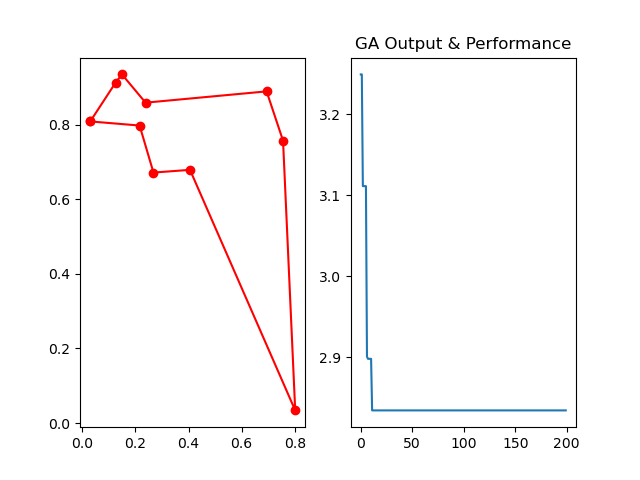
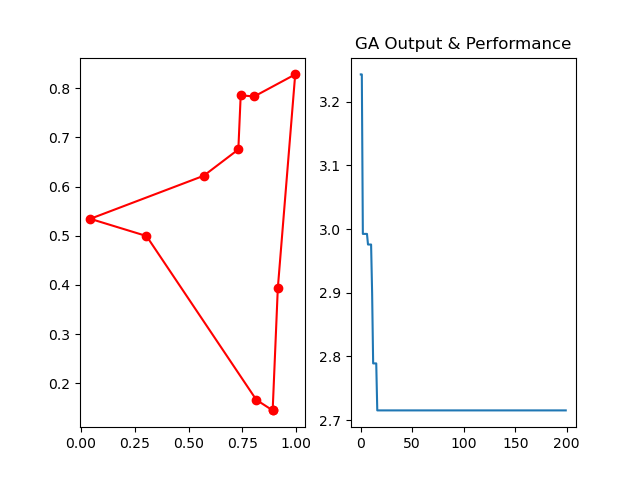
Commit 1.8 Markers Implemented, algorithm csv data

diff --git a/templates/csv_calc.html b/templates/csv_calc.html
@@ -34,20 +34,41 @@
 
         <p class="standard-text">Check your CSV for mistakes</p>
         <form action="/csv-calculator-data" target="_blank">
-        <input type="submit" value="Show CSV" />
-        {{ data_var|safe }}
+            <input type="submit" value="Show CSV" />
+            {{ data_var|safe }}
+        </form>
+
+        <p class="standard-text">Plot your coordinates on a map!</p>
+        <form method="POST" action="/plotted-data/">
+            <input type="submit" value="Plot Data">
         </form>
     </div>
     <br>
+
     <div id="map">
         {{ iframe|safe }}
     </div>
-    <div class = "frontend-calculator">
 
+    <h3>Input values</h3>
+    <p class="standard-text">Please type in values.</p>
+    <div class="input-values-calculator">
+        <h4>Max Iterations</h4>
+        <form id="myForm" action="/distances-csv/" method="POST">
+        <input type="number" class="form-field" id="max_iter" name="max_iter" value="{{ max_iter }}" required/> 
+        <h4>Number of points</h4>
+        <input type="number" class="form-field" id="num_points" name="num_points" value="{{ num_points }}" required/> 
+        <h4>Population size</h4>
+        <input type="number" class="form-field" id="size_pop" name="size_pop" value="{{ size_pop }}" required/> 
+        <h4>Probability of Mutation</h4>
+        <input type="number" class="form-field" id="prob_mut" name="prob_mut" value="{{ prob_mut }}" required/>
+        <input type="submit" value="Calculate">
+        </form>
     </div>
 
-    <!--Clickable Map Calculator-->
-    <h2 class="paragraph-heading">Clickable Map Calculator</h2>
+    <p>Total time taken by the ACO algorithm: {{ total_time_aco }} seconds</p>
+    <p>Total time taken by the GA algorithm: {{ total_time_ga }} seconds</p>
+    <p>Total lengths of the ACO algorithms tour: {{ best_distance_aco }}</p>
+    <p>Total lengths of the GA algorithms tour: {{ best_distance_ga }}</p>
 
      <!-- footer section -->
  <footer>

diff --git a/views.py b/views.py
@@ -11,6 +11,7 @@ import time
 import folium
 import os
 from werkzeug.utils import secure_filename
+import openrouteservice as ors
 
 views = Blueprint(__name__, "views")
 
@@ -96,10 +97,10 @@ m = folium.Map(location=[47.4244818, 9.3767173])
 # set the iframe width and height
 m.get_root().width = "800px"
 m.get_root().height = "600px"
-iframe = m.get_root()._repr_html_()
+
 
 #View and method for uploading and diplaying the map
-@views.route("/csv-calculator/", methods=("POST", "GET"))
+@views.route("/csv-calculator/", methods=["POST", "GET"])
 def upload_csv():
 
     if request.method == 'POST':
@@ -107,30 +108,111 @@ def upload_csv():
         data_filename = secure_filename(uploaded_df.filename)
         uploaded_df.save(os.path.join(current_app.config['UPLOAD_FOLDER'], data_filename))
         session['uploaded_data_file_path'] = os.path.join(current_app.config['UPLOAD_FOLDER'], data_filename)
-        return render_template('csv_calc.html', iframe=iframe)
+        return render_template('csv_calc.html')
     
     else:
-        flash("Oops.. this didnt work. please make sure you're using the correct datatype and your connection is stable.")
-    
-#view and method for showing data
+        return render_template("csv_calc.html")
+
+#view and method for showing data table in new tab
 @views.route("/csv-calculator-data/", methods=("POST","GET"))
 def show_data():
     data_file_path = session.get("uploaded_data_file_path", None)
-    uploaded_df = pd.read_csv(data_file_path)
+    uploaded_df = pd.read_csv(data_file_path, delimiter=";")
     uploaded_df_html = uploaded_df.to_html()
     return render_template('show_csv_data.html', data_var = uploaded_df_html)
 
-"""@views.route("/csv-calculator/")
-def plot_coords():
-    df_path = session.get("uploaded_data_file_path", None)
-    df = pd.read_csv(df_path)
+#view and method for plotting the provided coords
+@views.route("/plotted-data/", methods=["POST", "GET"])
+def plot_csv():
 
-    for index, row in df.iterrows():
+    data_file_path = session.get("uploaded_data_file_path", None)
+    coords = pd.read_csv(data_file_path, delimiter=";")
+    
+    lat = coords["lat"].astype(float).to_list()
+    long = coords["long"].astype(float).to_list() 
+    points = []
+
+    for i in range(len(lat)):
+        points.append([lat[i], long[i]])
+
+    line = folium.PolyLine(points, color = "blue", dash_array="5", opacity="85", tooltip="Transit Route 101")
+    marker_group = folium.FeatureGroup(name = "CSV Data")
+
+    for index, row in coords.iterrows():
         lat = row["lat"]
         long = row["long"]
+        marker = folium.Marker(location = [lat, long])
+        marker_group.add_child(marker)
 
-        folium.Marker(location=[lat, long]).add_to(m)"""
+    m.add_child(marker_group)
+    m.add_child(line)
+
+    iframe = m.get_root()._repr_html_()
+    return render_template("csv_calc.html", iframe=iframe)
+
+@views.route("/distances-csv/", methods=["POST", "GET"])
+def calculate_csv_distance():
+
+    if request.method == "POST":
+        num_points = int(request.form["num_points"])
+        max_iter = int(request.form["max_iter"])
+        size_pop = int(request.form["size_pop"])
+        prob_mut = int(request.form["prob_mut"])
+    else:
+        num_points = 10
+        max_iter = 200
+        size_pop = 50
+        prob_mut = 1
+
+    data_file_path = session.get("uploaded_data_file_path", None)
+    coords = pd.read_csv(data_file_path, delimiter=";")
+
+    points_coordinate = np.array(coords[["lat", "long"]])
+    distance_matrix = spatial.distance.cdist(points_coordinate, points_coordinate, metric='euclidean')
+
+    def cal_total_distance(routine):
+        num_points, = routine.shape
+        return sum([distance_matrix[routine[i % num_points], routine[(i + 1) % num_points]] for i in range(num_points)])
     
+    #ant colony optimization
+    start_time_aco = time.time()
+
+    aca = ACA_TSP(func=cal_total_distance, n_dim=num_points,
+               size_pop = size_pop, max_iter=max_iter,
+              distance_matrix=distance_matrix)
+
+    best_x, best_y = aca.run()
+
+    end_time_aco = time.time()
+    total_time_aco = end_time_aco - start_time_aco
+
+    fig, ax = plt.subplots(1, 2)
+    best_points_ = np.concatenate([best_x, [best_x[0]]])
+    best_points_coordinate = points_coordinate[best_points_, :]
+    ax[0].plot(best_points_coordinate[:, 0], best_points_coordinate[:, 1], 'o-r')
+    pd.DataFrame(aca.y_best_history).cummin().plot(ax=ax[1])
+    plt.title("ACO Output & Performance")
+    best_distance_aco = best_y
+    
+    #genetic algorithm
+    start_time_ga =time.time()
+
+    ga_tsp = GA_TSP(func=cal_total_distance, n_dim=num_points, size_pop = size_pop, max_iter = max_iter, prob_mut = prob_mut)
+    best_points, best_distance = ga_tsp.run()
+
+    end_time_ga= time.time()
+    total_time_ga= end_time_ga - start_time_ga
+
+    fig, ax = plt.subplots(1, 2)
+    best_points_ = np.concatenate([best_points, [best_points[0]]])
+    best_points_coordinate = points_coordinate[best_points_, :]
+    ax[0].plot(best_points_coordinate[:, 0], best_points_coordinate[:, 1], 'o-r')
+    ax[1].plot(ga_tsp.generation_best_Y)
+    plt.title("GA Output & Performance")
+    best_distance_ga = best_distance[0]
+
+    return render_template("csv_calc.html", max_iter=max_iter, num_points=num_points, size_pop=size_pop, prob_mut=prob_mut, total_time_aco=total_time_aco, total_time_ga=total_time_ga, best_distance_aco=best_distance_aco, best_distance_ga=best_distance_ga )
+
 @views.route("/contact/")
 def contact():
     return render_template("contact.html")
